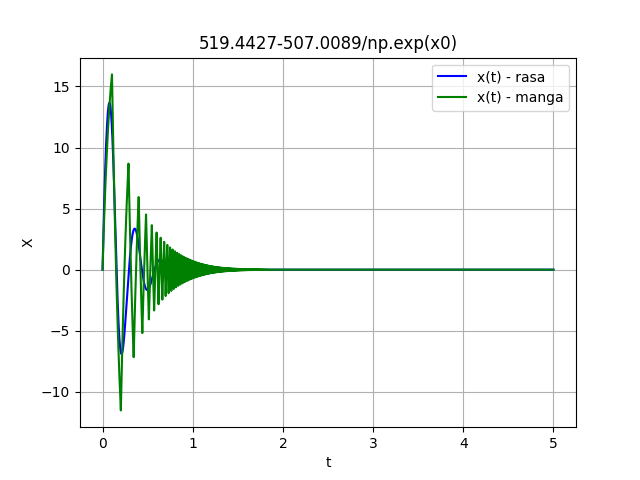
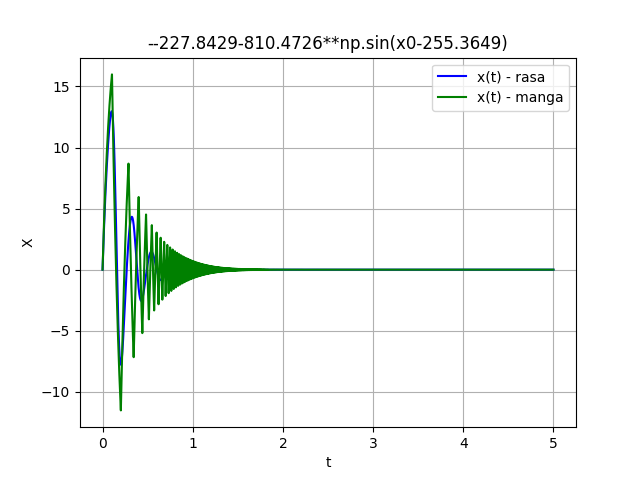
last function

Changed region(s): [[0.25, 0.0625, 0.7812, 0.125], [0.1562, 0.2188, 0.25, 0.7188]]

diff --git a/costFunction.py b/costFunction.py
@@ -54,7 +54,7 @@ def mainCost(position):
             B = 10
             k = 20
             u = 1
-            t = np.linspace(0, 5, 5000)
+            t = np.linspace(0, 5, 20000)
 
             y0 = [0, 0]
 
@@ -106,7 +106,7 @@ def mainCost(position):
             counter = 0
             for i in sol[:, 0]:
                 counter = counter + 1
-                if counter > 4000:
+                if counter > 18000:
                     if i < 0.25:
                         secondCost = 10000
                         break

diff --git a/ODE.py b/ODE.py
@@ -155,5 +155,5 @@ def solveAndPlot(sstring):
 
 
 # menga = 'np.tanh(np.tanh(np.tanh(np.tanh(x0)*81.6497)*8)*abs(np.sqrt(np.pi)* np.log(6)))*np.pi*81.6497'
-rasa = '519.4427-507.0089/np.exp(x0)'
+rasa = '--227.8429-810.4726**np.sin(x0-255.3649)'
 # solveAndPlot(rasa)
